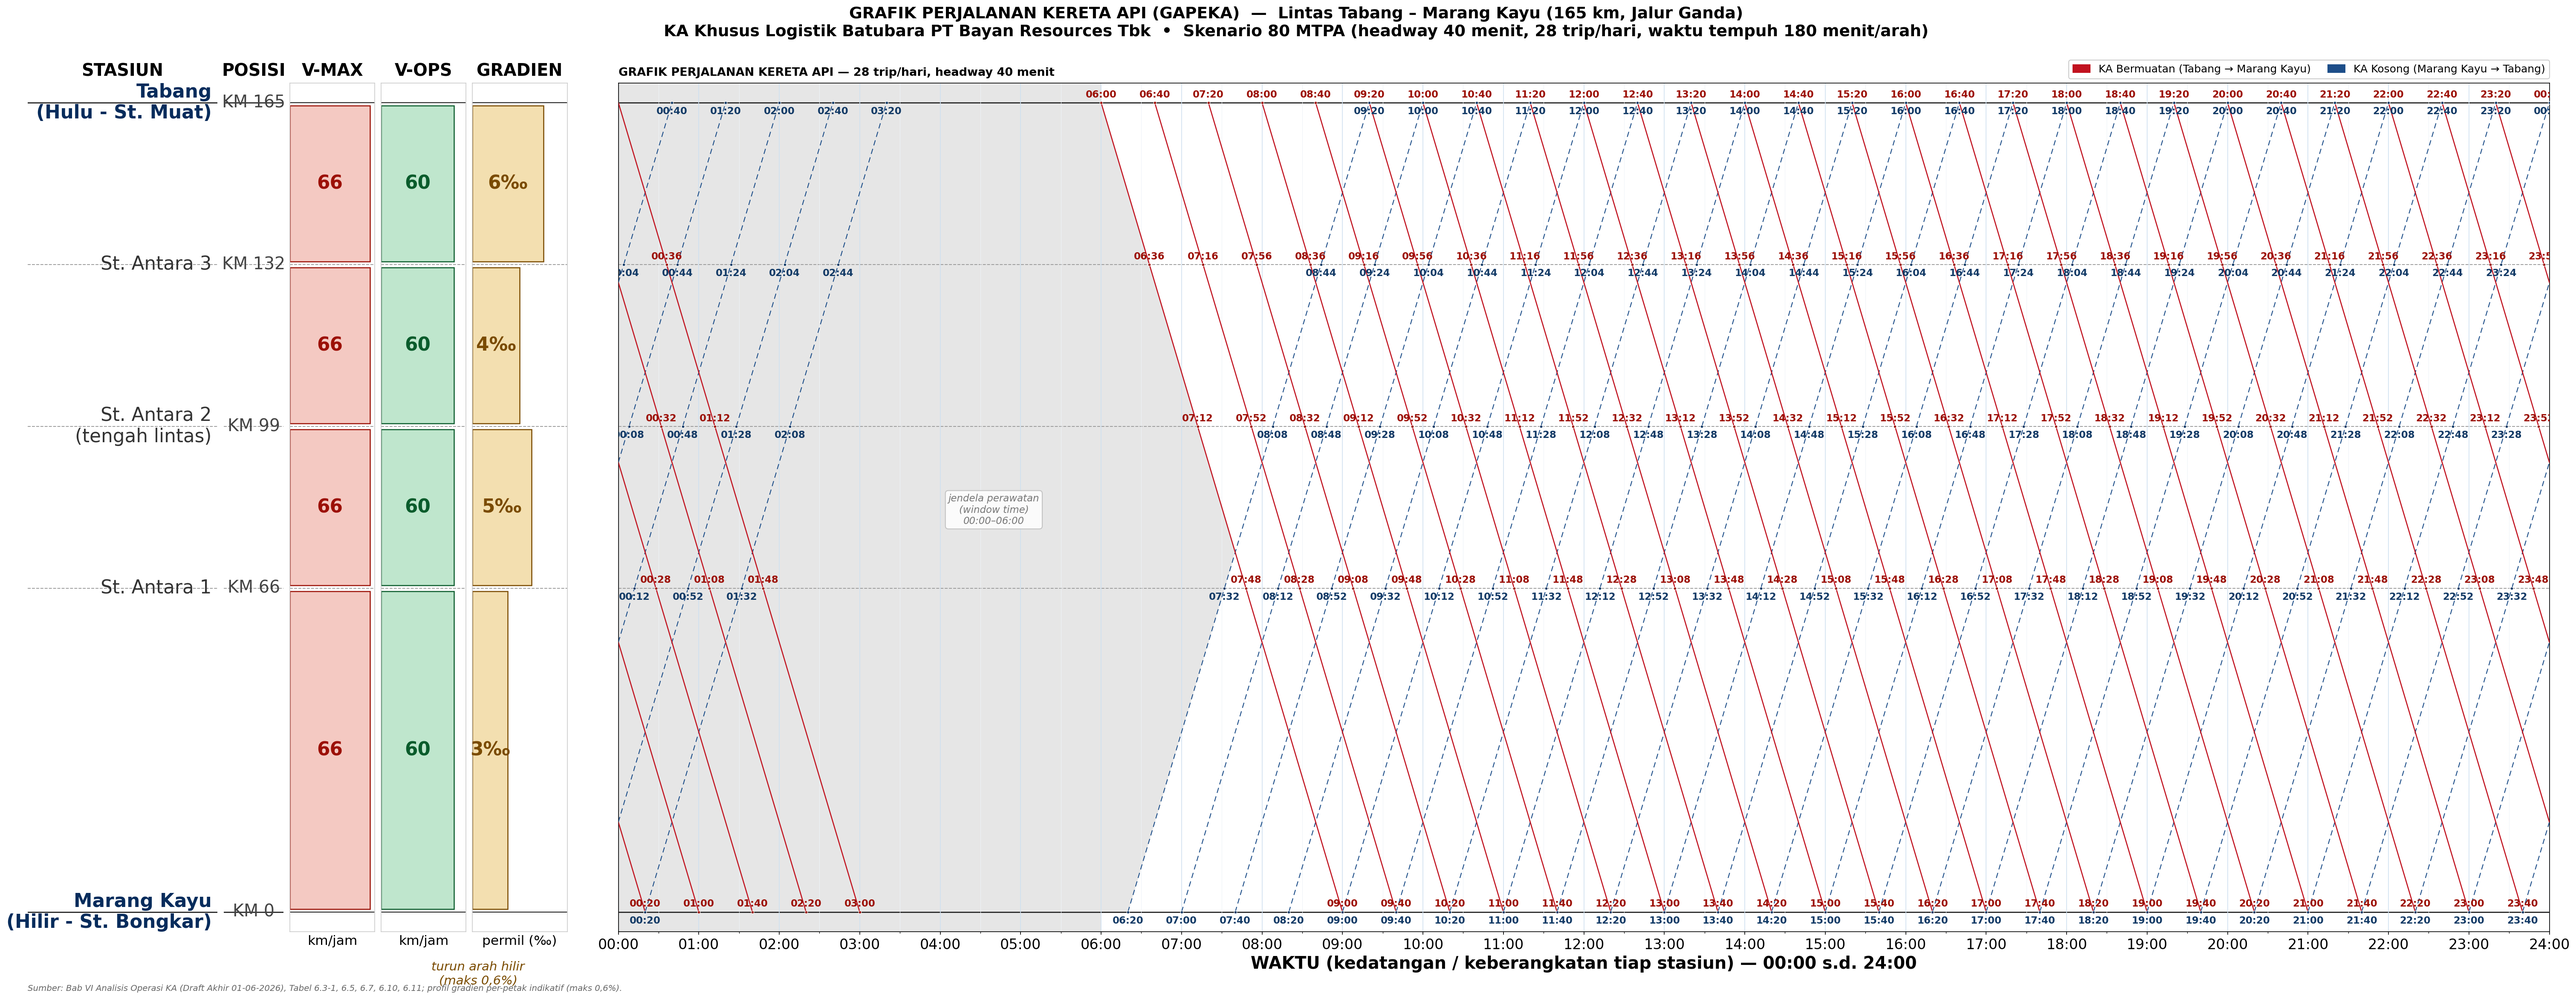
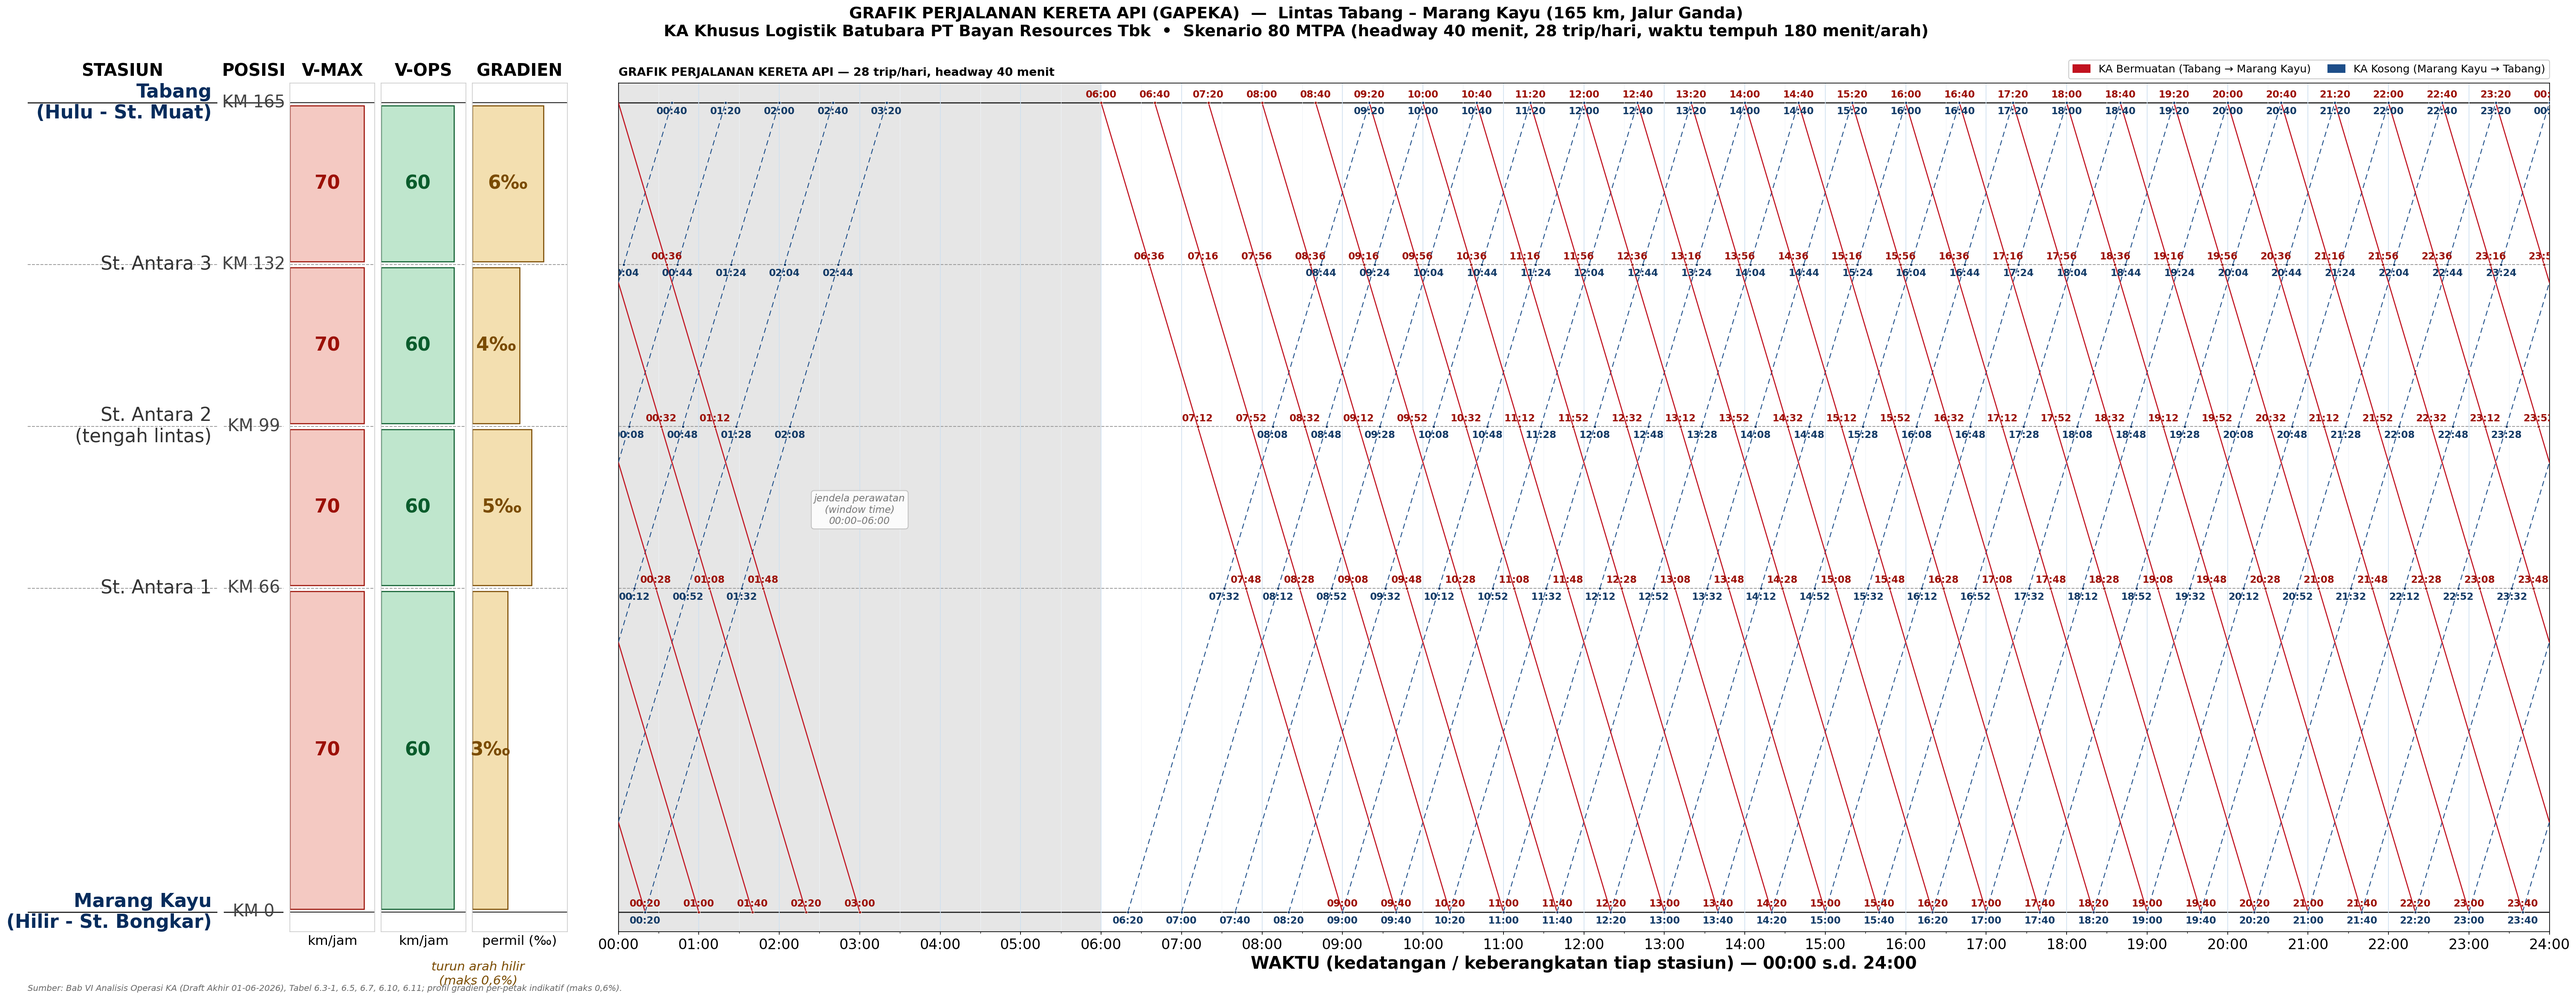
Set V-max 70; restrict maintenance shading to fixed 00:00-06:00 band

diff --git a/outputs/make_gapeka.py b/outputs/make_gapeka.py
@@ -31,10 +31,10 @@ YMIN, YMAX = 0, 165
 
 # Petak jalan (arah bermuatan hulu->hilir): km_atas, km_bawah, jarak, Vmax, Vops, gradien_permil
 SEGMENTS = [
-    (165, 132, 33, 66, 60, 6.0),
-    (132,  99, 33, 66, 60, 4.0),
-    ( 99,  66, 33, 66, 60, 5.0),
-    ( 66,   0, 66, 66, 60, 3.0),
+    (165, 132, 33, 70, 60, 6.0),
+    (132,  99, 33, 70, 60, 4.0),
+    ( 99,  66, 33, 70, 60, 5.0),
+    ( 66,   0, 66, 70, 60, 3.0),
 ]
 VOPS = 55.0
 def seg_minutes(d): return d / VOPS * 60.0
@@ -116,7 +116,7 @@ def build(scn, annotate_all=False, dpi=150, figsize=(22, 11.5)):
         ax.set_xticks([]); ax.set_yticks([])
         for sp in ax.spines.values(): sp.set_color("#ccc")
 
-    profile(ax_vmax, [s[3] for s in SEGMENTS], 70, "#9c1006", "#f4c9c2", "km/jam", "V-MAX")
+    profile(ax_vmax, [s[3] for s in SEGMENTS], 80, "#9c1006", "#f4c9c2", "km/jam", "V-MAX")
     profile(ax_vops, [s[4] for s in SEGMENTS], 70, "#0a5c2c", "#bfe6cd", "km/jam", "V-OPS")
     profile(ax_grad, [s[5] for s in SEGMENTS], 8, "#7a4b00", "#f3dfb0", "permil (‰)",
             "GRADIEN", fmt="{:.0f}‰")
@@ -189,23 +189,10 @@ def build(scn, annotate_all=False, dpi=150, figsize=(22, 11.5)):
                              color="#7a0a13", zorder=7,
                              bbox=dict(boxstyle="round,pad=0.18", fc="#fff3f3", ec="#c1121f", lw=0.6))
 
-    # window perawatan = area yang BENAR-BENAR tanpa kereta, yaitu celah menyerong antara
-    # KA terakhir siklus sebelumnya (yang dibungkus dari 24:00) dan KA pertama pukul 06:00.
-    TT = sum(seg_minutes(s[2]) for s in SEGMENTS)   # 180 menit/arah
-    slope = TT / 165.0
-    LD = OP_START + (freq - 1) * headway             # keberangkatan terakhir (24:00)
-    def loaded_left(km):  return (LD - DAY) + (165 - km) * slope
-    def loaded_right(km): return OP_START + (165 - km) * slope
-    def empty_left(km):   return (LD + headway / 2 - DAY) + km * slope
-    def empty_right(km):  return (OP_START + headway / 2) + km * slope
-    kms = [k for k in range(0, 166, 2)]
-    Lb = [max(loaded_left(k), empty_left(k)) for k in kms]
-    Rb = [min(loaded_right(k), empty_right(k)) for k in kms]
-    ax_main.fill_betweenx(kms, Lb, Rb, color="#e6e6e6", lw=0, zorder=0)
-    # arsiran jendela perawatan 00:00-06:00 (window time per dokumen)
+    # arsiran jendela perawatan = band tetap 00:00-06:00 (window time per dokumen)
     ax_main.axvspan(T_START, OP_START, color="#e6e6e6", lw=0, zorder=0)
-    # label di tengah area perawatan
-    cx = (max(loaded_left(82), empty_left(82)) + min(loaded_right(82), empty_right(82))) / 2
+    # label di tengah band perawatan
+    cx = OP_START / 2
     ax_main.text(cx, 82, "jendela perawatan\n(window time)\n00:00–06:00",
                  ha="center", va="center", fontsize=11, color="#777", style="italic", zorder=8,
                  bbox=dict(boxstyle="round,pad=0.3", fc="white", ec="#bbb", alpha=0.85))
